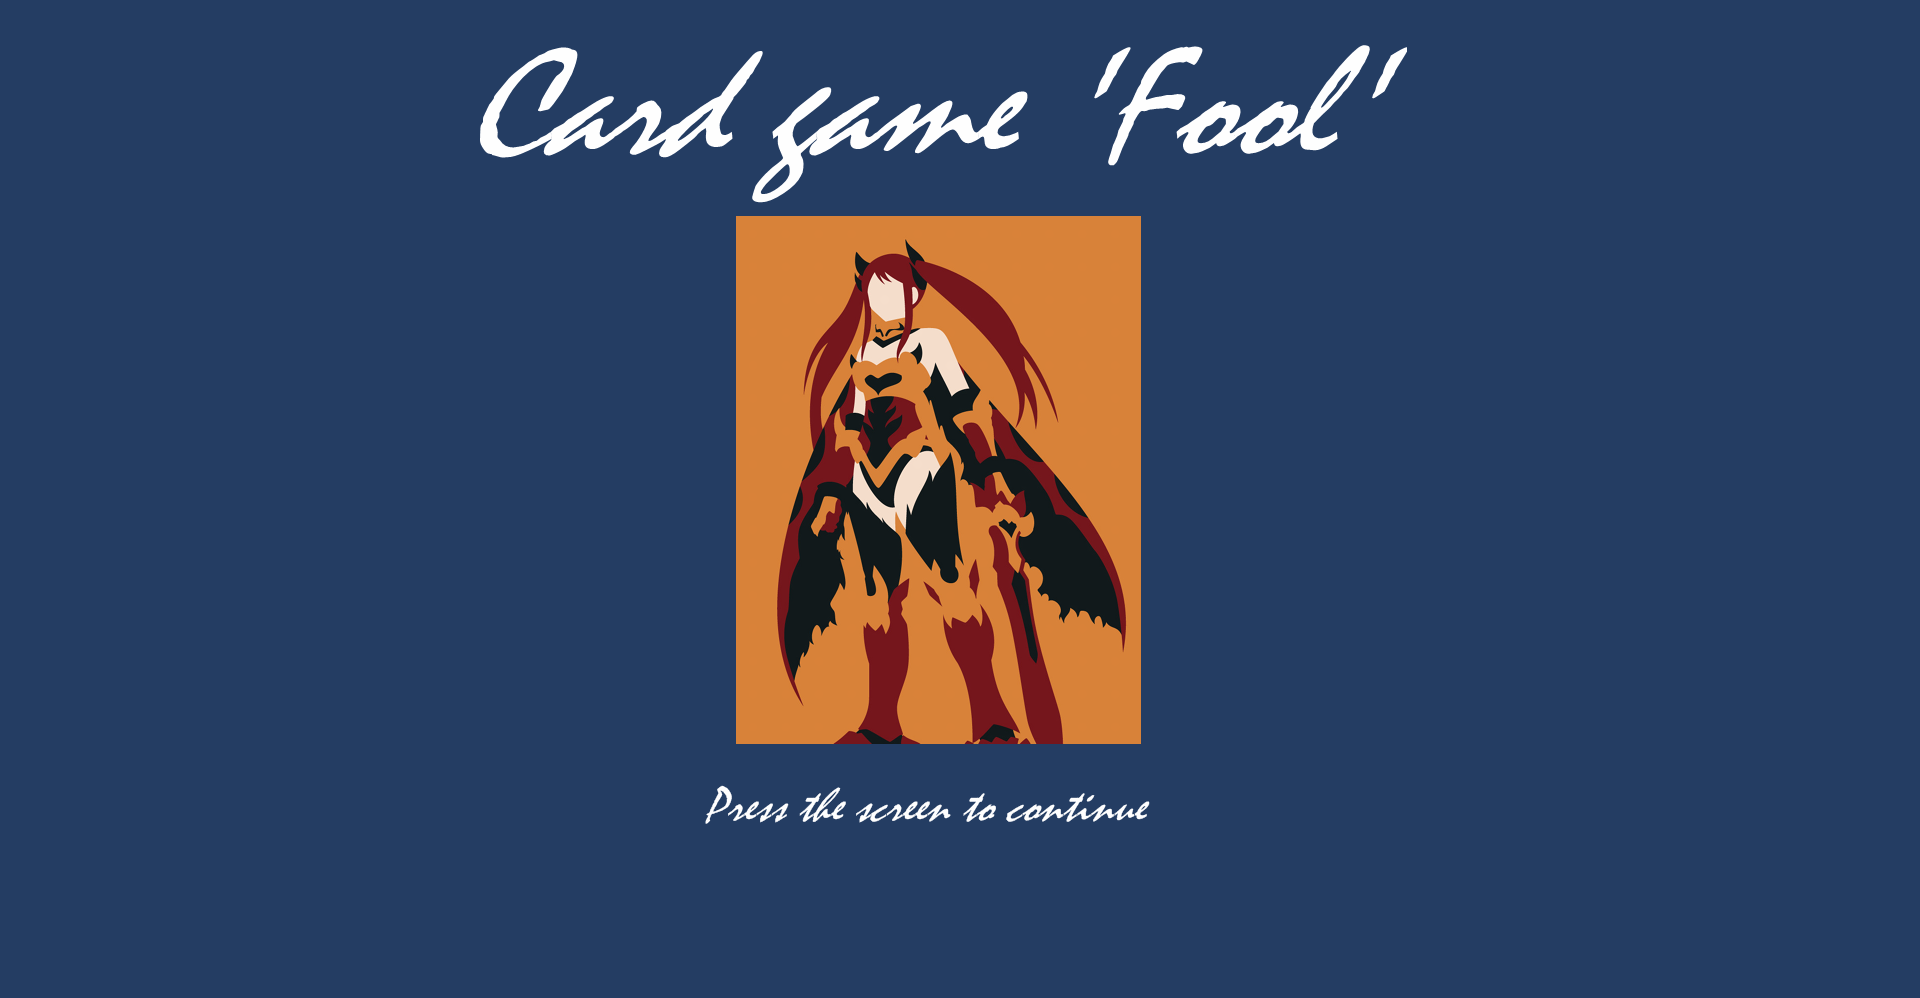
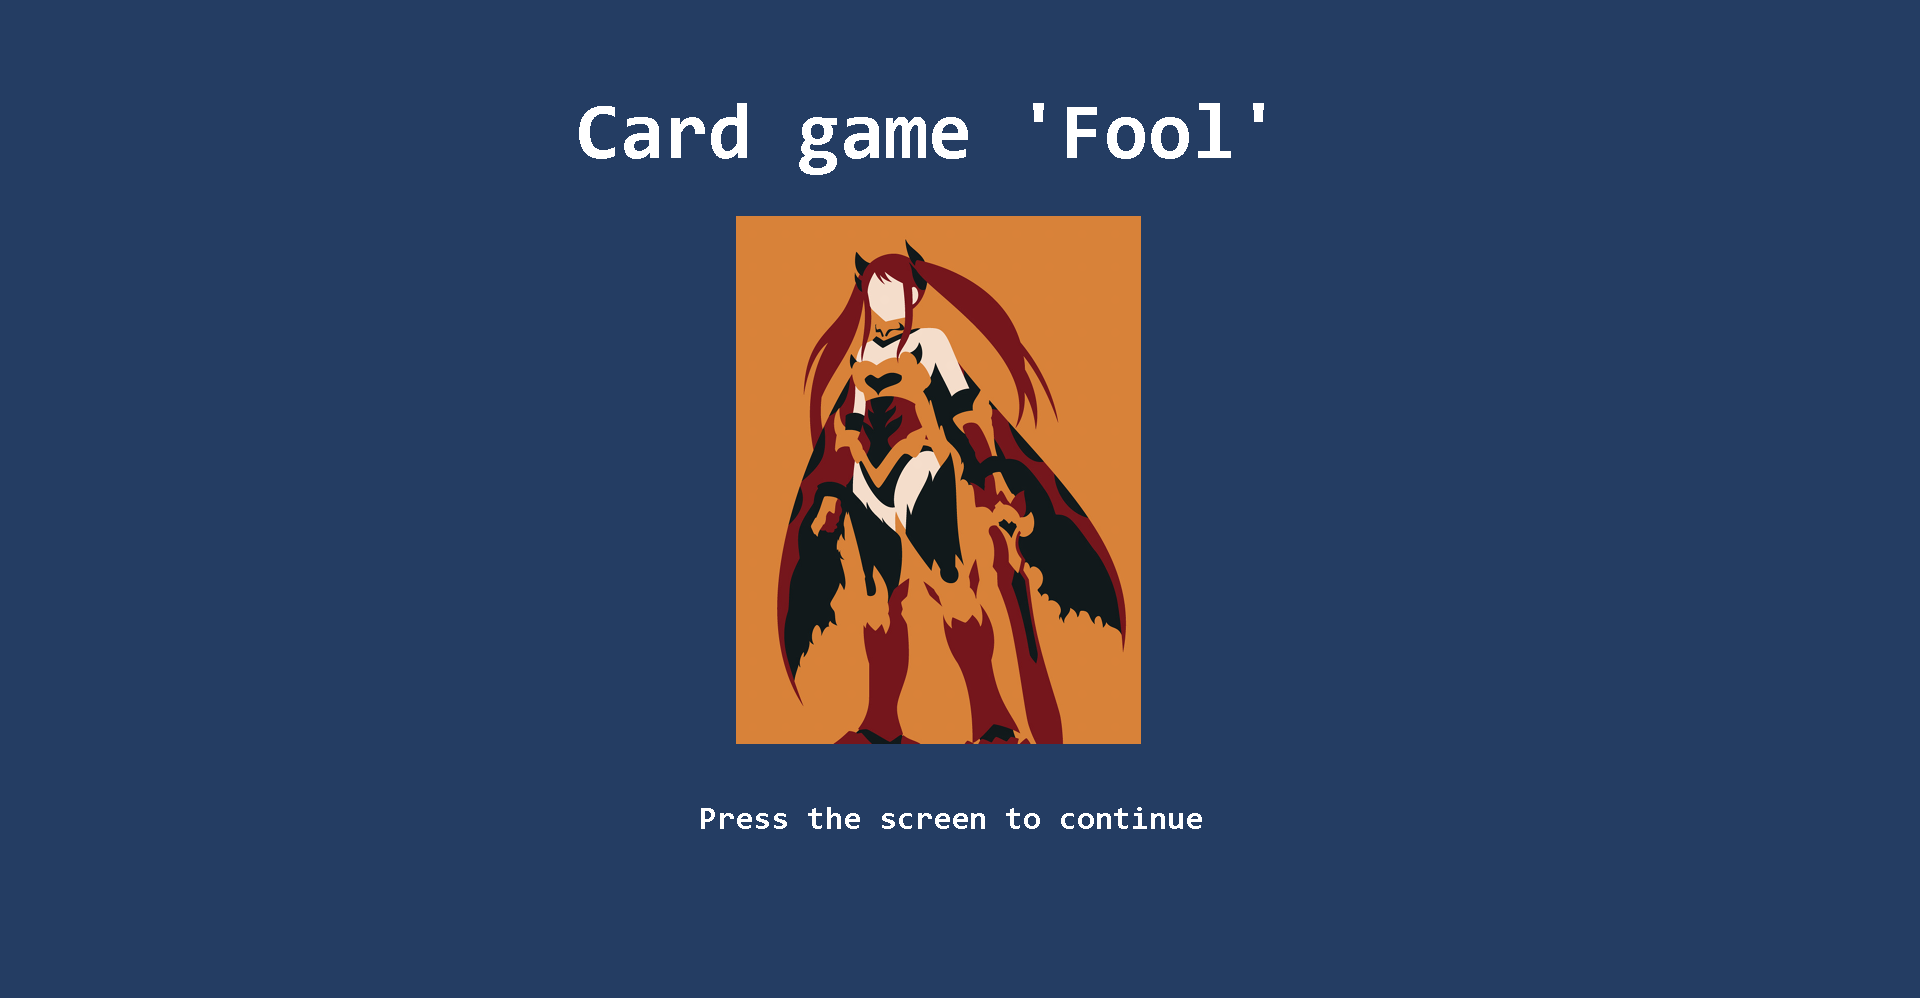
adaptive version

Changed region(s): [[0.25, 0.0311, 0.75, 0.2174], [0.3438, 0.7766, 0.625, 0.8387]]

diff --git a/html/about.html b/html/about.html
@@ -10,7 +10,8 @@
 
 <body>
 	<div class="info">
-		<p>"Card game 'Fool' for two players. One of the players is a computer. Each player is dealt 6 cards, the next
+		<p>Press the screen to continue
+			"Card game 'Fool' for two players. One of the players is a computer. Each player is dealt 6 cards, the next
 			card is revealed and its suit sets the trump card for this game, and the rest of the deck is placed on top
 			so that the trump card is visible to everyone. Ace cannot be a trump card. The ace of trump does not fight
 			back in the game. The object of the game is to get rid of all cards. The last player who does not get rid of

diff --git a/css/main.css b/css/main.css
@@ -1,0 +1,28 @@
+html,
+body,
+a {
+    padding: 0px;
+    margin: 0px;
+    display: block;
+    width: 100%;
+    height: 100%;
+}
+
+body {
+    background-image: url(../deck/28.png);
+    background-position: 50% 50%;
+    background-size: 100% 100%;
+    background-repeat: no-repeat;
+}
+
+@media screen and (max-width: 800px) {
+    body {
+        background-image: url(../deck/29.png);
+    }
+}
+
+@media screen and (max-width: 500px) {
+    body {
+        background-image: url(../deck/30.png);
+    }
+}

diff --git a/index.html b/index.html
@@ -5,24 +5,7 @@
 	<meta charset="UTF-8">
 	<meta name="viewport" content="width=device-width, initial-scale=1.0">
 	<title>Fool</title>
-	<style>
-		html,
-		body,
-		a {
-			padding: 0px;
-			margin: 0px;
-			display: block;
-			width: 100%;
-			height: 100%;
-		}
-
-		body {
-			background-image: url(deck/28.png);
-			background-position: 50% 50%;
-			background-size: 100% 100%;
-			background-repeat: no-repeat;
-		}
-	</style>
+	<link rel="stylesheet" type="text/css" href="css/main.css">
 </head>
 
 <body>
